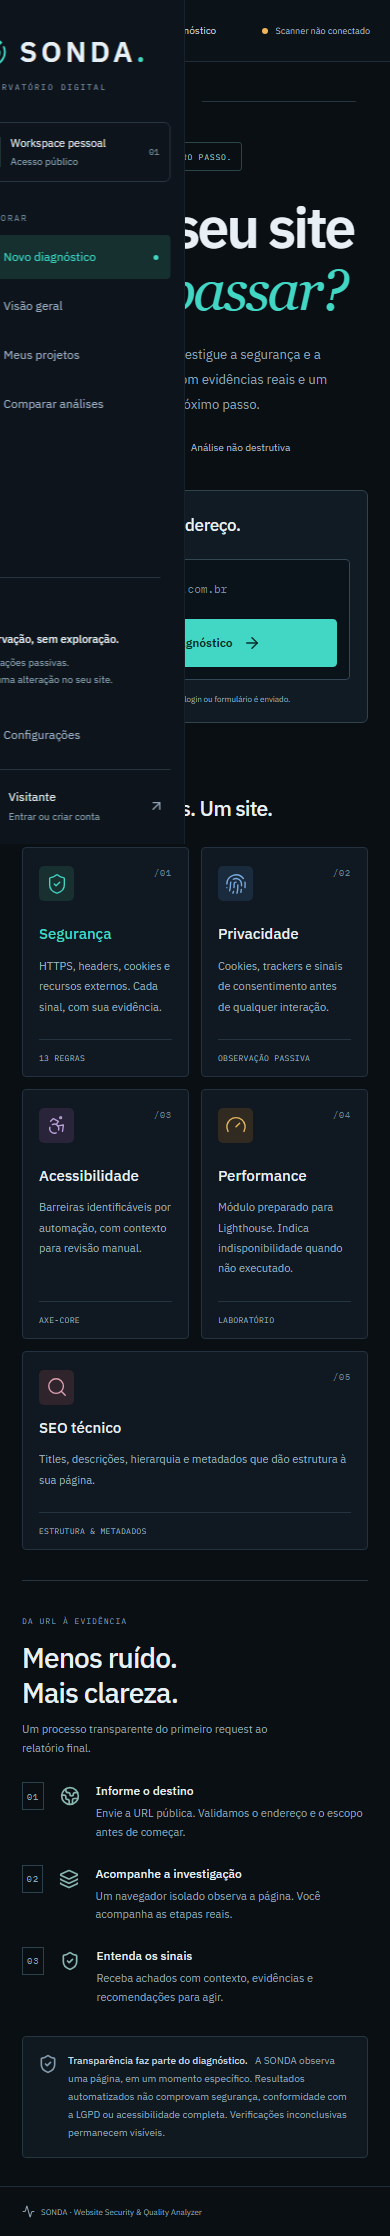
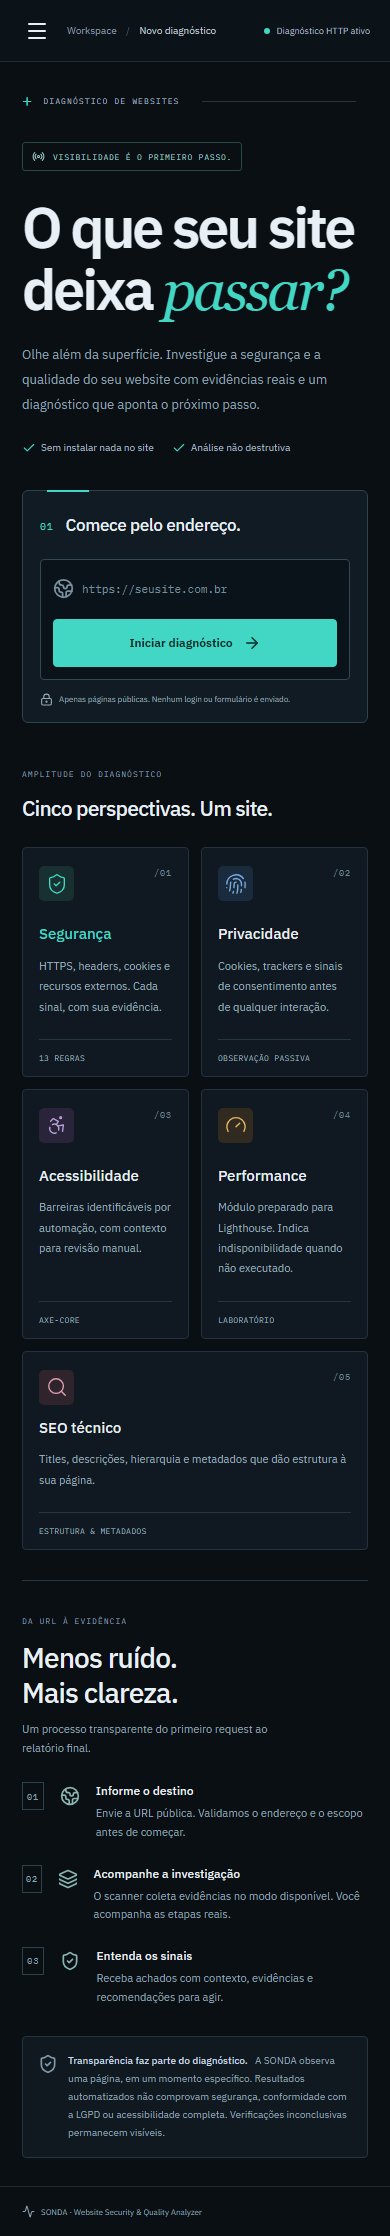
fix: expose optional API ingress and record live HTTP verification

diff --git a/docs/implementation-report.md b/docs/implementation-report.md
@@ -6,7 +6,7 @@ Foi implementado e provisionado um segundo modo de execução, nativo da Vercel:
 
 Navegador, screenshot, mixed content, scripts externos, axe e Lighthouse permanecem explicitamente indisponíveis/inconclusivos nesse modo. A nota é provisória com cobertura limitada. Banco usado nesse modo é storage privado de objetos, não PostgreSQL; execução usa Next.js after, não BullMQ. Essas diferenças são declaradas, não equivalências artificiais com a especificação original.
 
-Resultados posteriores: 113 testes locais aprovados, 2 testes da API completa ignorados localmente. Leitura/gravação condicional de Blob privado verificada com dados temporários removidos. Uma auditoria HTTP real de example.com confirmou TLS válido, 17 resultados e 80% de cobertura (valores reais do momento da coleta). CI Linux já aprovou lint/typecheck/test/build/E2E frontend/audit e secret scanning; integração do backend completo ainda em execução. Verificação do fluxo na versão publicada será registrada abaixo ao concluir.
+Resultados posteriores: 113 testes locais aprovados, 2 testes da API completa ignorados localmente. Leitura/gravação condicional de Blob privado verificada com dados temporários removidos. Na aplicação publicada, o fluxo real de example.com concluiu com 17 resultados, nota provisória 38 e 80% de cobertura (valores do momento da coleta). Relatório sem capacidade retornou 404; exportação PDF retornou 200 e arquivo com assinatura %PDF. Filtro e expansão da evidência funcionaram no navegador. Screenshots reais estão em `docs/assets/`, incluindo `report-http-live.png`. CI Linux já aprovou lint/typecheck/test/build/E2E frontend/audit e secret scanning; integração do backend completo ainda em execução.
 
 As seções abaixo documentam também o backend completo opcional; não são requisitos de instalação para o modo publicado sem Docker.
 
@@ -38,13 +38,13 @@ Lighthouse efetivo (sempre INCONCLUSIVE), marcação visual por seletor de achad
 
 ## 6. Execução
 
-`pnpm install`, `pnpm db:generate`, `pnpm --filter @sonda/web dev`. Fullstack: configurar `.env` local e `docker compose up --build -d --wait`; analisar `http://172.30.20.4:8080/`. `node scripts/check-network.mjs`. Testes: `pnpm lint`, `pnpm typecheck`, `pnpm test`, `pnpm build`, `pnpm test:e2e`, `pnpm audit --prod --audit-level=high`. Detalhes no README.
+Sem Docker: `pnpm install`, `pnpm dev:native`, ou acessar o site publicado. Fullstack opcional: configurar `.env` local e `docker compose up --build -d --wait`; analisar `http://172.30.20.4:8080/`. `node scripts/check-network.mjs`. Testes: `pnpm lint`, `pnpm typecheck`, `pnpm test`, `pnpm build`, `pnpm test:e2e`, `pnpm audit --prod --audit-level=high`. Detalhes no README.
 
 ## 7. Resultados observados no Windows
 
 - Typecheck: 9 pacotes aprovados.
 - Build Next.js: aprovado, todas as rotas geradas.
-- Vitest: 109 aprovados, 2 testes da API ignorados por dependência de serviços Docker.
+- Vitest: 113 aprovados, 2 testes da API completa ignorados por dependência de serviços Docker.
 - Scanner: navegação real Chromium na fixture, 17 resultados, cookies sem valores, axe-core executado e screenshot real.
 - E2E frontend: 1 aprovado, 1 fluxo completo ignorado até ambiente fullstack.
 - Auditoria de dependências de produção: nenhuma vulnerabilidade conhecida após atualização de swagger-ui/static e override deepmerge-ts 8.0.2.
@@ -54,9 +54,9 @@ Lighthouse efetivo (sempre INCONCLUSIVE), marcação visual por seletor de achad
 
 Perfil público não verificado na infraestrutura final; browser/kernel devem ser atualizados; CSP do frontend permite inline para hidratação Next; proxy Vercel altera identidade IP vista pelo backend; compartilhamento usa token de capacidade em URL; paths e screenshots públicos podem conter PII publicada; limite agregado de tráfego ainda incompleto. Consulte threat-model.md.
 
-## 9. Produção pendente
+## 9. Produção do modo completo opcional
 
-Hospedagem Linux para API/worker/runner/egress, PostgreSQL e Redis, TLS/ingress, segredo runner, storage privado e backups, gateway com origem/IP autenticados, validação do sandbox e rede, depois flags de scans públicos. Na Vercel, conectar API_URL e WEB_ORIGIN quando esse backend existir. A disponibilidade do frontend não significa scanner público disponível.
+O modo HTTP já está disponível na Vercel e dispensa essa infraestrutura. Para habilitar o navegador completo: hospedagem Linux para API/worker/runner/egress, PostgreSQL e Redis, TLS/ingress, segredo runner, storage privado e backups, gateway com origem/IP autenticados, validação do sandbox e rede, depois flags de scans públicos. Na Vercel, conectar API_URL e WEB_ORIGIN quando esse backend existir.
 
 ## 10. Checklist de conclusão
 
